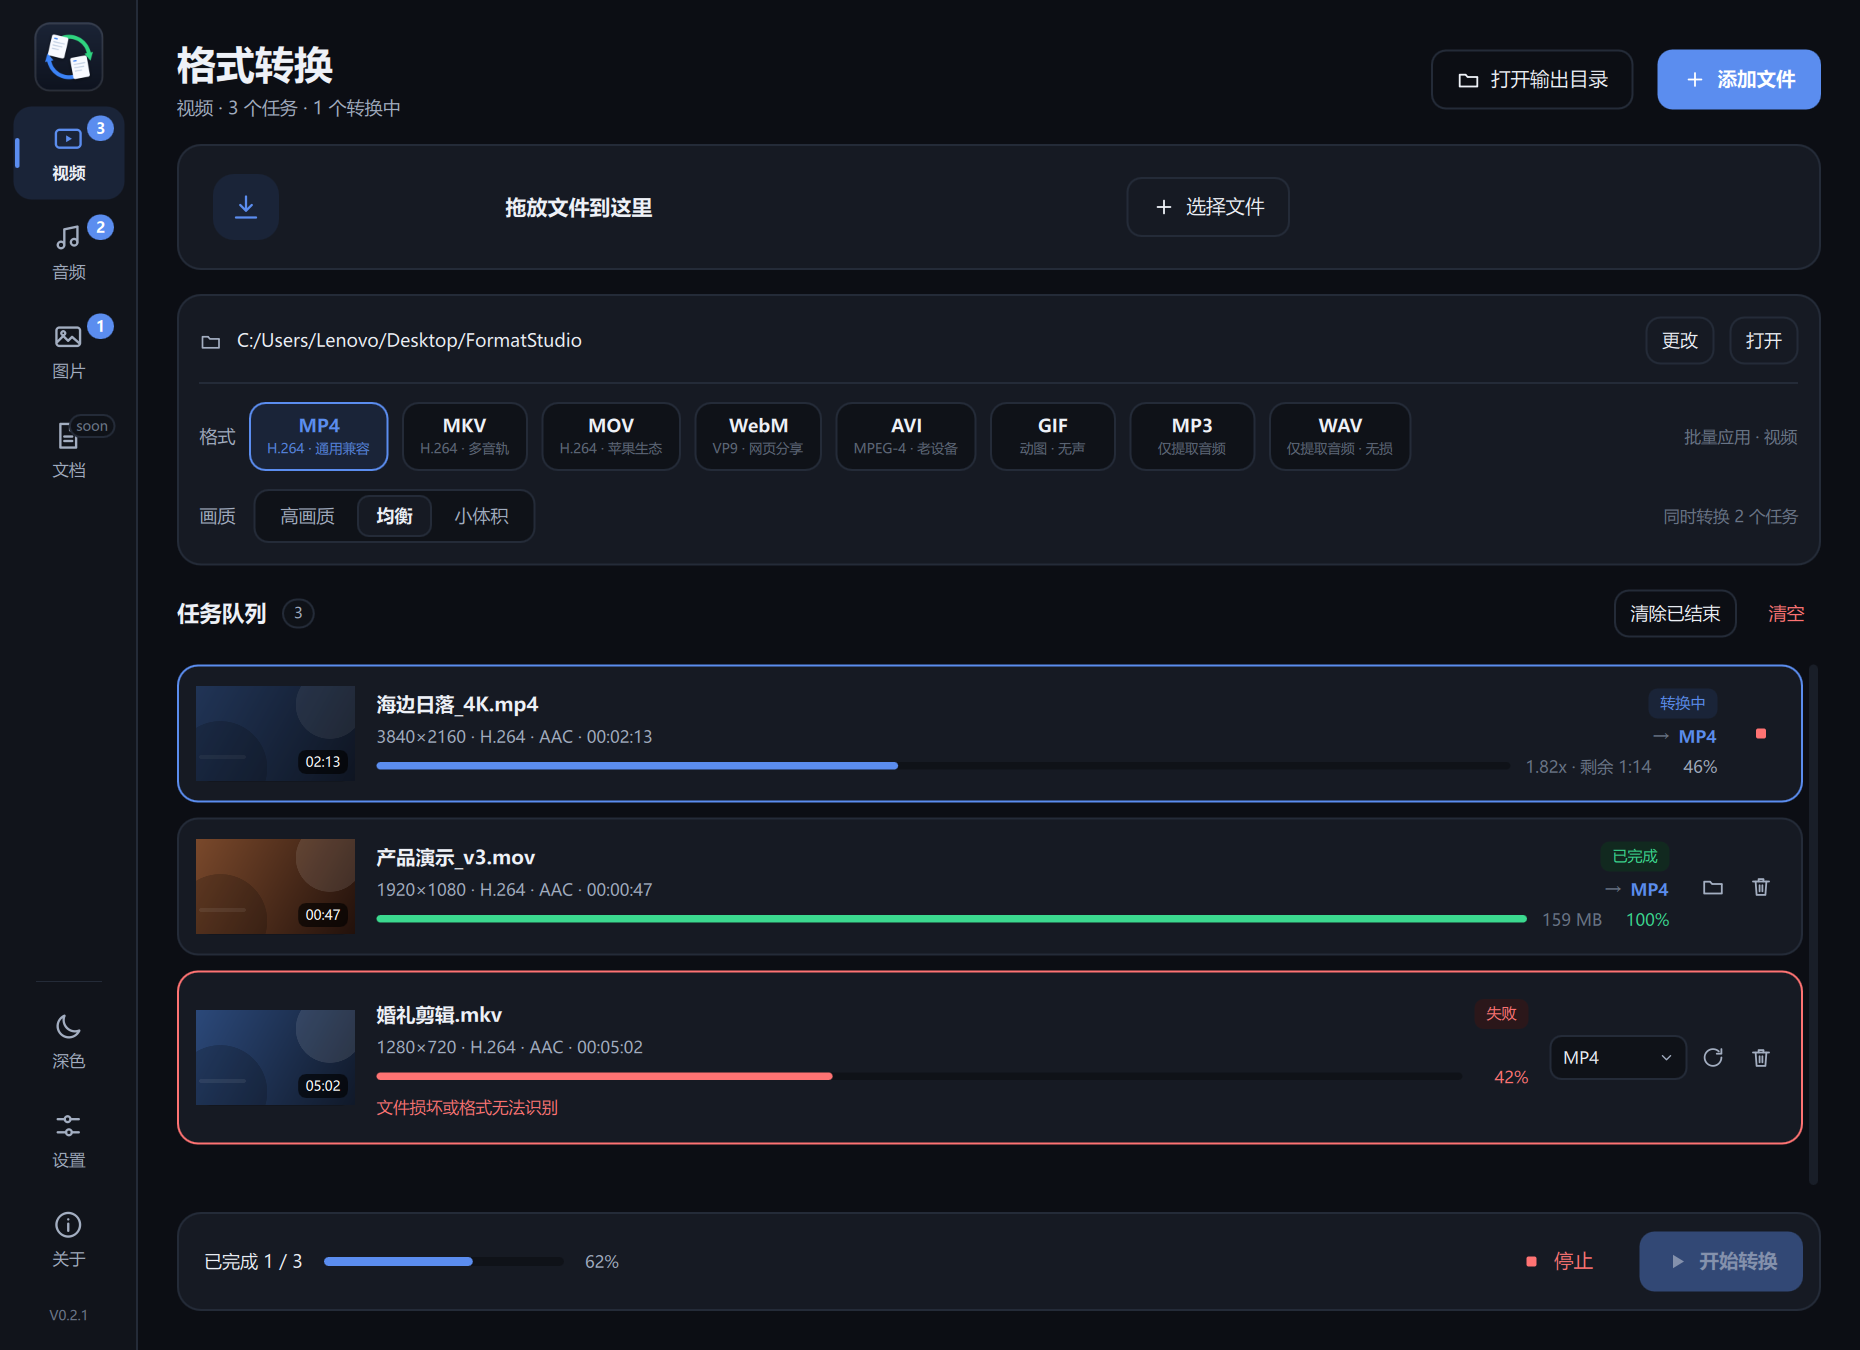
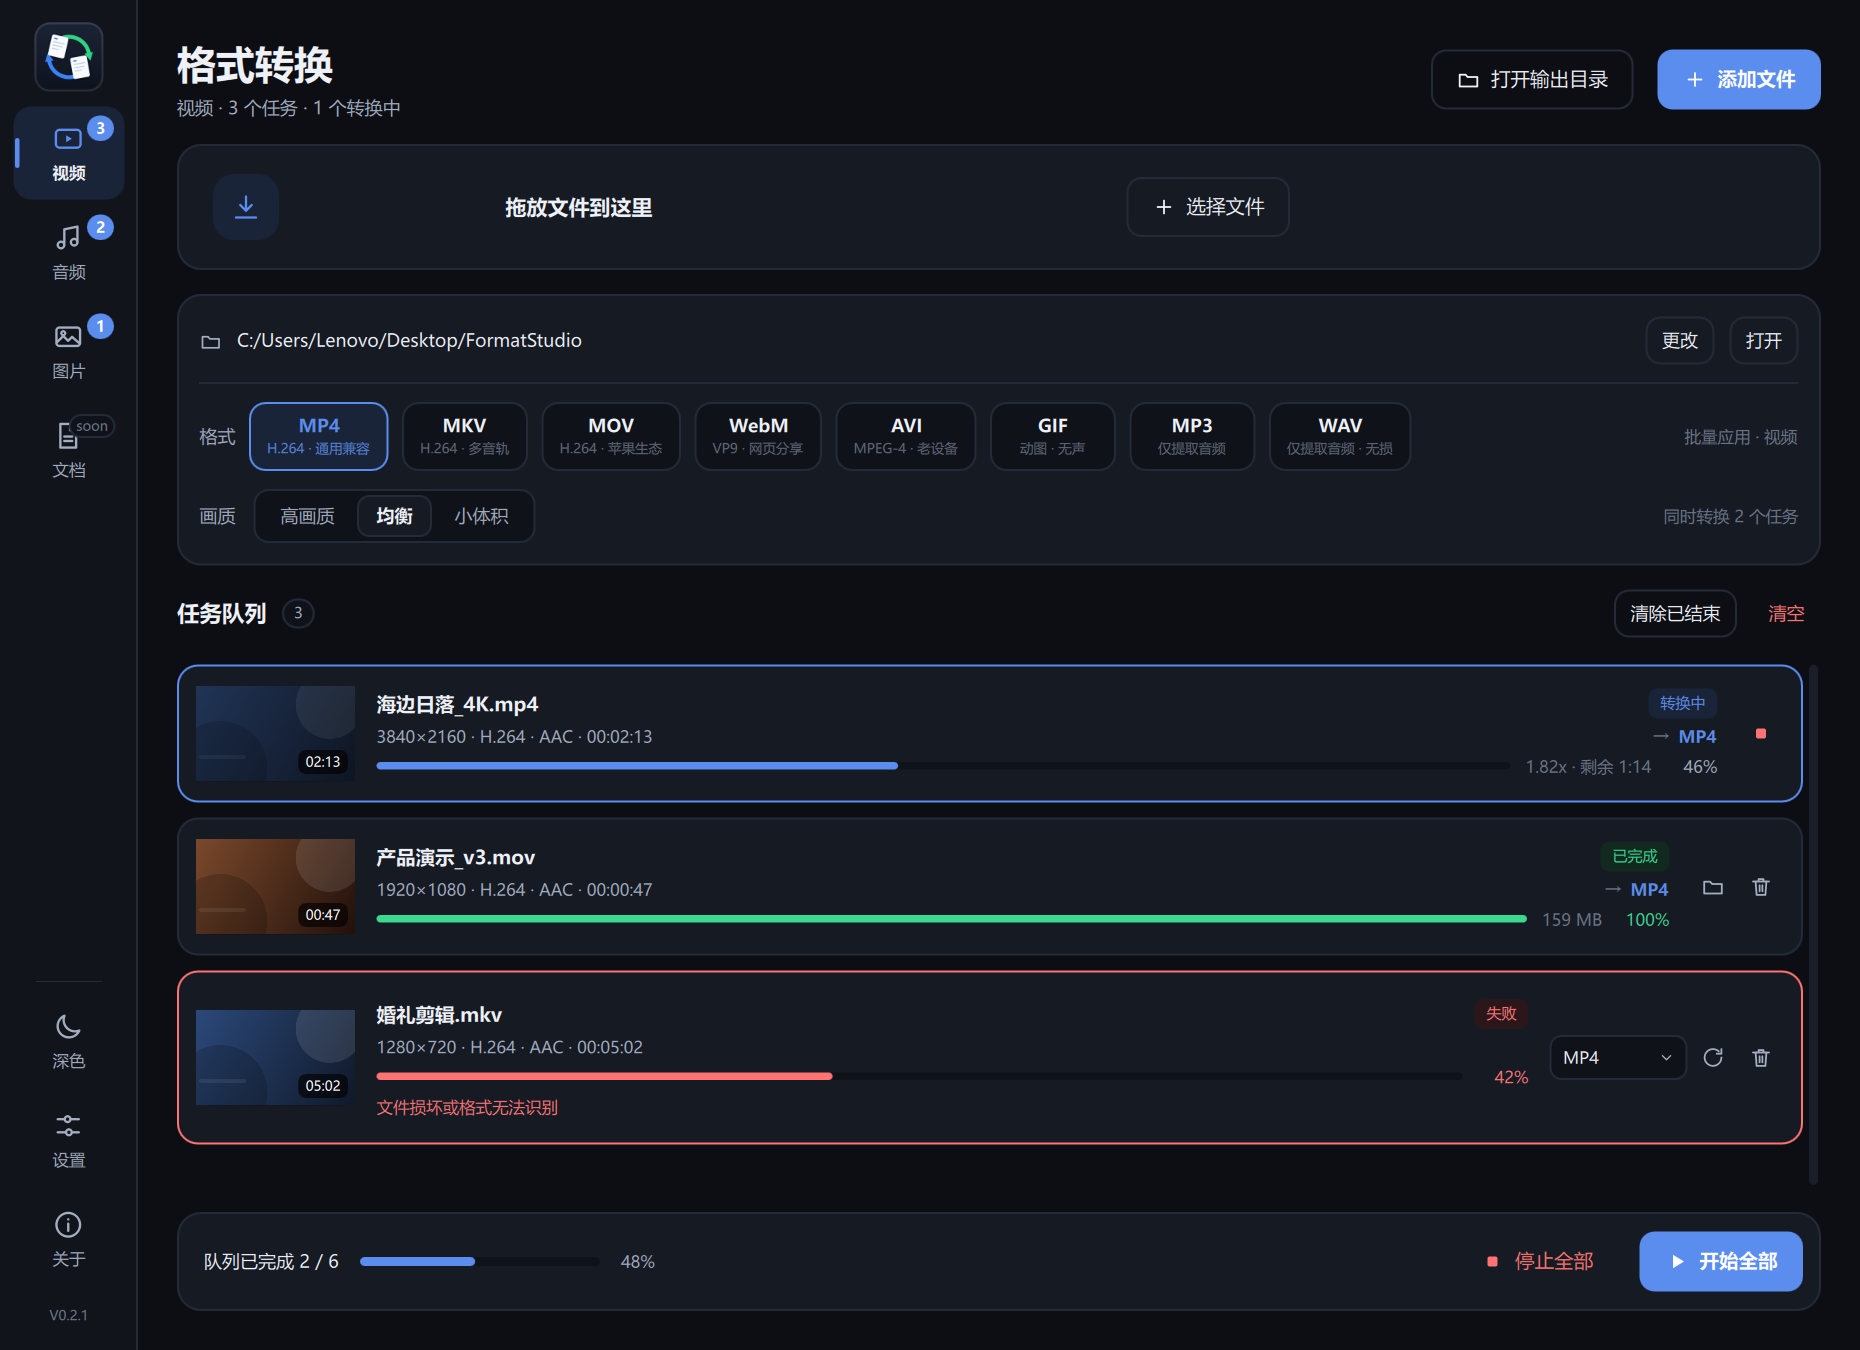
feat: 真正的暂停（挂起 ffmpeg 进程，继续时原地接着转）；队列按钮统一为「开始/暂停/继续/停止全部」

diff --git a/ConvertPage.qml b/ConvertPage.qml
@@ -358,7 +358,7 @@ Item {
                 spacing: 14
 
                 Text {
-                    text: "已完成 " + backend.tasks.visibleDone + " / " + backend.tasks.visibleTotal
+                    text: "队列已完成 " + backend.doneCount + " / " + backend.totalCount
                     color: Theme.text
                     font.pixelSize: 12
                 }
@@ -378,7 +378,7 @@ Item {
 
                     Rectangle {
                         anchors.verticalCenter: parent.verticalCenter
-                        width: Math.max(0, Math.min(100, backend.tasks.visibleProgress)) / 100 * overallTrack.width
+                        width: Math.max(0, Math.min(100, backend.overallProgress)) / 100 * overallTrack.width
                         height: 6
                         radius: 3
                         color: Theme.accent
@@ -387,7 +387,7 @@ Item {
                 }
 
                 Text {
-                    text: backend.tasks.visibleProgress + "%"
+                    text: backend.overallProgress + "%"
                     color: Theme.textDim
                     font.pixelSize: 11
                     Layout.preferredWidth: 34
@@ -396,18 +396,19 @@ Item {
                 Item { Layout.fillWidth: true }
 
                 StudioButton {
-                    text: "停止"
+                    text: "停止全部"
                     icon: "stop"
                     danger: true
-                    visible: backend.runningCount > 0 || backend.queueActive
+                    visible: backend.runningCount > 0 || backend.queueActive || backend.paused
                     onClicked: backend.stopAll()
                 }
 
                 StudioButton {
-                    text: backend.queueActive ? "暂停队列" : "开始转换"
+                    text: backend.queueActive ? "暂停全部"
+                          : backend.paused ? "继续全部" : "开始全部"
                     icon: backend.queueActive ? "pause" : "play"
                     primary: !backend.queueActive
-                    enabled: backend.queueActive ? true : backend.tasks.visibleQueued > 0
+                    enabled: backend.queueActive || backend.paused || backend.hasQueued
                     onClicked: backend.toggleQueue()
                 }
             }

diff --git a/converterbackend.cpp b/converterbackend.cpp
@@ -21,6 +21,10 @@
 #include <QUrl>
 #include <QUuid>
 
+#ifdef Q_OS_WIN
+#  include <windows.h>
+#endif
+
 #include <utility>
 
 namespace {
@@ -65,6 +69,16 @@ QString lastNonEmptyLine(const QString &text)
     }
     return QString();
 }
+
+#ifdef Q_OS_WIN
+using NtProcessFn = LONG(NTAPI *)(HANDLE);
+
+NtProcessFn ntProcessFunction(const char *name)
+{
+    static HMODULE ntdll = GetModuleHandleW(L"ntdll.dll");
+    return ntdll ? reinterpret_cast<NtProcessFn>(GetProcAddress(ntdll, name)) : nullptr;
+}
+#endif
 
 QString humanSize(qint64 bytes)
 {
@@ -1126,12 +1140,37 @@ void ConverterBackend::schedule()
     }
 }
 
+void ConverterBackend::setRunningSuspended(bool suspend)
+{
+#ifdef Q_OS_WIN
+    // 格式工厂式的暂停：直接挂起 ffmpeg 进程，继续时从原位置接着转，
+    // 不会重新开始，也不占用 CPU。
+    NtProcessFn fn = ntProcessFunction(suspend ? "NtSuspendProcess" : "NtResumeProcess");
+    if (!fn)
+        return;
+
+    const auto processes = m_running;
+    for (QProcess *proc : processes) {
+        if (!proc)
+            continue;
+        const qint64 pid = proc->processId();
+        if (pid <= 0)
+            continue;
+        HANDLE handle = OpenProcess(0x0800 /* PROCESS_SUSPEND_RESUME */, FALSE, DWORD(pid));
+        if (!handle)
+            continue;
+        fn(handle);
+        CloseHandle(handle);
+    }
+#else
+    Q_UNUSED(suspend);
+#endif
+}
+
 void ConverterBackend::startAll()
 {
-    const QString kind = currentKind();
-    if (!hasQueuedFor(kind)) {
-        emit toast(QStringLiteral("「%1」分类没有等待转换的任务").arg(kindLabel(kind)),
-                   QStringLiteral("info"));
+    if (!hasQueued()) {
+        emit toast(QStringLiteral("没有等待转换的任务"), QStringLiteral("info"));
         return;
     }
     if (m_ffmpeg.isEmpty()) {
@@ -1140,7 +1179,7 @@ void ConverterBackend::startAll()
             QStringLiteral("未检测到转换组件，转换无法开始"));
         return;
     }
-    m_activeKind = kind;
+    m_activeKind.clear();
     m_queueActive = true;
     emit queueActiveChanged();
     schedule();
@@ -1148,17 +1187,12 @@ void ConverterBackend::startAll()
 
 void ConverterBackend::toggleQueue()
 {
-    const QString kind = currentKind();
     if (m_queueActive) {
         pauseQueue();
-    } else if (hasQueuedFor(kind) || runningCount() > 0) {
-        m_activeKind = kind;
-        m_queueActive = true;
-        emit queueActiveChanged();
-        schedule();
+    } else if (m_suspended || hasQueued() || runningCount() > 0) {
+        resumeQueue();
     } else {
-        emit toast(QStringLiteral("「%1」分类没有等待转换的任务").arg(kindLabel(kind)),
-                   QStringLiteral("info"));
+        emit toast(QStringLiteral("没有等待转换的任务"), QStringLiteral("info"));
     }
 }
 
@@ -1166,17 +1200,31 @@ void ConverterBackend::pauseQueue()
 {
     if (!m_queueActive)
         return;
+
     m_queueActive = false;
+    m_suspended = !m_running.isEmpty();
+    setRunningSuspended(true);
     emit queueActiveChanged();
-    emit toast(QStringLiteral("队列已暂停，当前任务将继续完成"), QStringLiteral("info"));
+    log(QStringLiteral("WARN"), QStringLiteral("queue"),
+        QStringLiteral("暂停 · 挂起 %1 个任务").arg(m_running.size()));
+    emit toast(QStringLiteral("已暂停，点「继续全部」从当前位置接着转换"),
+               QStringLiteral("info"));
 }
 
 void ConverterBackend::resumeQueue()
 {
-    const QString kind = currentKind();
-    if (m_queueActive || (!hasQueuedFor(kind) && runningCount() == 0))
+    if (m_queueActive)
         return;
-    m_activeKind = kind;
+
+    if (m_suspended) {
+        setRunningSuspended(false);
+        m_suspended = false;
+        log(QStringLiteral("INFO"), QStringLiteral("queue"), QStringLiteral("继续转换"));
+    }
+
+    if (!hasQueued() && runningCount() == 0)
+        return;
+
     m_queueActive = true;
     emit queueActiveChanged();
     schedule();
@@ -1184,10 +1232,16 @@ void ConverterBackend::resumeQueue()
 
 void ConverterBackend::stopAll()
 {
-    if (m_running.isEmpty() && !m_queueActive) {
+    if (m_running.isEmpty() && !m_queueActive && !m_suspended) {
         emit toast(QStringLiteral("当前没有正在进行的转换"), QStringLiteral("info"));
         return;
     }
+
+    if (m_suspended) {
+        setRunningSuspended(false);
+        m_suspended = false;
+    }
+
     m_queueActive = false;
     m_activeKind.clear();
     emit queueActiveChanged();

diff --git a/converterbackend.h b/converterbackend.h
@@ -33,6 +33,7 @@ class ConverterBackend : public QObject
     Q_PROPERTY(int overallProgress READ overallProgress NOTIFY countsChanged)
     Q_PROPERTY(bool hasQueued READ hasQueued NOTIFY countsChanged)
     Q_PROPERTY(bool queueActive READ queueActive NOTIFY queueActiveChanged)
+    Q_PROPERTY(bool paused READ paused NOTIFY queueActiveChanged)
     Q_PROPERTY(QVariantList logEntries READ logEntries NOTIFY logEntriesChanged)
 
     Q_PROPERTY(bool ffmpegReady READ ffmpegReady NOTIFY ffmpegChanged)
@@ -77,6 +78,7 @@ public:
     int overallProgress() const;
     bool hasQueued() const;
     bool queueActive() const { return m_queueActive; }
+    bool paused() const { return m_suspended; }
 
     bool ffmpegReady() const { return !m_ffmpeg.isEmpty(); }
     QString ffmpegVersion() const { return m_ffmpegVersion; }
@@ -143,6 +145,7 @@ private:
     void clearInternal(const QString &kind);
     void log(const QString &level, const QString &module, const QString &text);
     void loadRecentLog();
+    void setRunningSuspended(bool suspend);
     QString logFilePath() const;
     void finishTask(const QString &id, int exitCode, QProcess::ExitStatus status);
     void handleProgressChunk(const QString &id);
@@ -171,6 +174,7 @@ private:
     QString m_kindFilter = QStringLiteral("video");
     QString m_activeKind;   // category the running queue is working on
     bool m_queueActive = false;
+    bool m_suspended = false;   // ffmpeg 进程是否被挂起（真正的暂停）
 
     QHash<QString, QString> m_defaultFormats;
     QHash<QString, QProcess *> m_running;

diff --git a/main.cpp b/main.cpp
@@ -51,6 +51,8 @@ int main(int argc, char *argv[])
     parser.addOption({ QStringLiteral("repo"), QStringLiteral("临时覆盖 GitHub 仓库 owner/repo"), QStringLiteral("repo") });
     parser.addOption({ QStringLiteral("check-update"), QStringLiteral("检查更新后退出（开发用）") });
     parser.addOption({ QStringLiteral("fake-update"), QStringLiteral("预览「发现新版本」对话框（开发用）") });
+    parser.addOption({ QStringLiteral("pause-after"), QStringLiteral("毫秒后暂停队列（开发用）"), QStringLiteral("ms") });
+    parser.addOption({ QStringLiteral("resume-after"), QStringLiteral("毫秒后继续队列（开发用）"), QStringLiteral("ms") });
     parser.process(app);
 
     ConverterBackend backend;
@@ -128,6 +130,13 @@ int main(int argc, char *argv[])
         QTimer::singleShot(300, &updates, &GithubService::checkForUpdates);
         QTimer::singleShot(12000, &app, []() { QCoreApplication::exit(3); });
     }
+
+    if (parser.isSet(QStringLiteral("pause-after")))
+        QTimer::singleShot(parser.value(QStringLiteral("pause-after")).toInt(),
+                           &backend, &ConverterBackend::pauseQueue);
+    if (parser.isSet(QStringLiteral("resume-after")))
+        QTimer::singleShot(parser.value(QStringLiteral("resume-after")).toInt(),
+                           &backend, &ConverterBackend::resumeQueue);
 
     if (parser.isSet(QStringLiteral("smoke"))) {
         const QStringList inputs = parser.value(QStringLiteral("smoke"))
